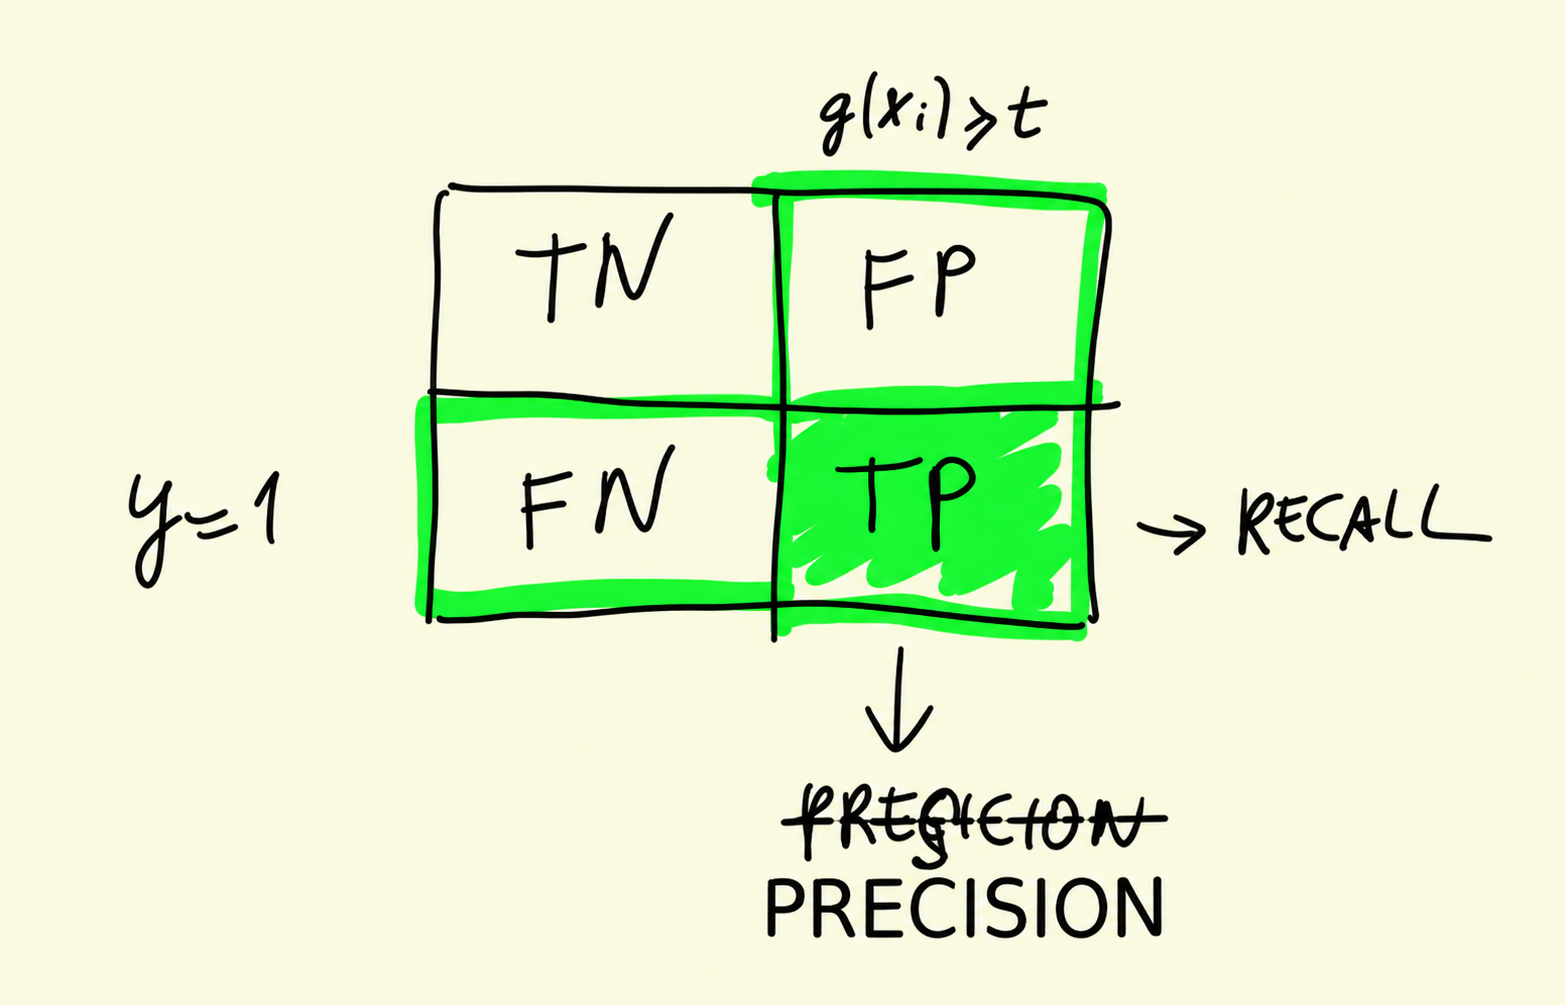
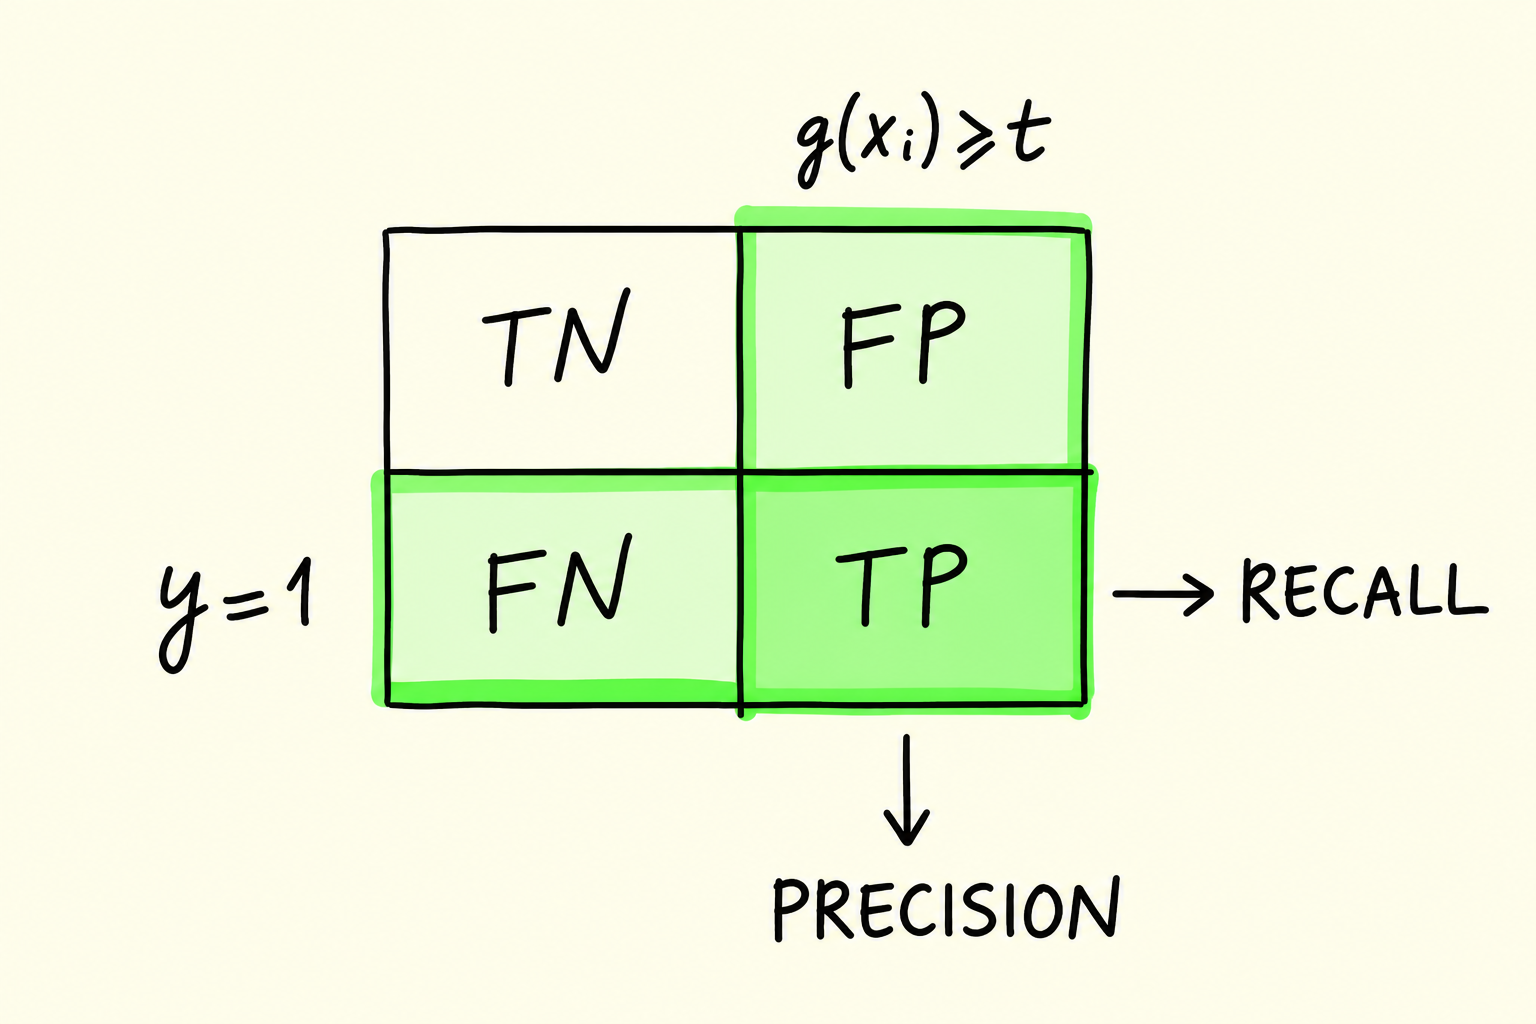
Repair precision recall table illustration

Changed region(s): [[0.0625, 0.0617, 0.9688, 0.9562]]

diff --git a/cohorts/2026/04-evaluation/images/2026-09-09-precision-recall-repair-provenance.md b/cohorts/2026/04-evaluation/images/2026-09-09-precision-recall-repair-provenance.md
@@ -29,3 +29,26 @@ Validation:
 - The final PNG carries C2PA metadata identifying `gpt-image`.
 - No camera, cursor, playback controls, borders, watermark, or extra text remain.
 - The generated text was checked visually against the required wording.
+
+## Precision/recall table
+
+Target: `04-precision-recall-06-precision-recall-table-crisp.png`
+
+The previous redraw retained an overwritten/crossed-out `PRECISION` label. The
+repaired redraw cleanly labels the predicted-positive column `PRECISION` and the
+actual-positive row `RECALL`, with the original `TN`, `FP`, `FN`, and `TP` cells.
+
+| Artifact | SHA-256 |
+|---|---|
[3 lines of base64/hex data omitted]
+
+Validation:
+
+- Final dimensions: `1536×1024`; simulated 608px render: `608×405`.
+- The final PNG carries C2PA metadata identifying `gpt-image`.
+- The green bottom row and right column correspond to recall and precision,
+  respectively; all four confusion-table labels are visible at 608px.
+- No camera, cursor, playback controls, borders, watermark, or overwritten label
+  remain.
